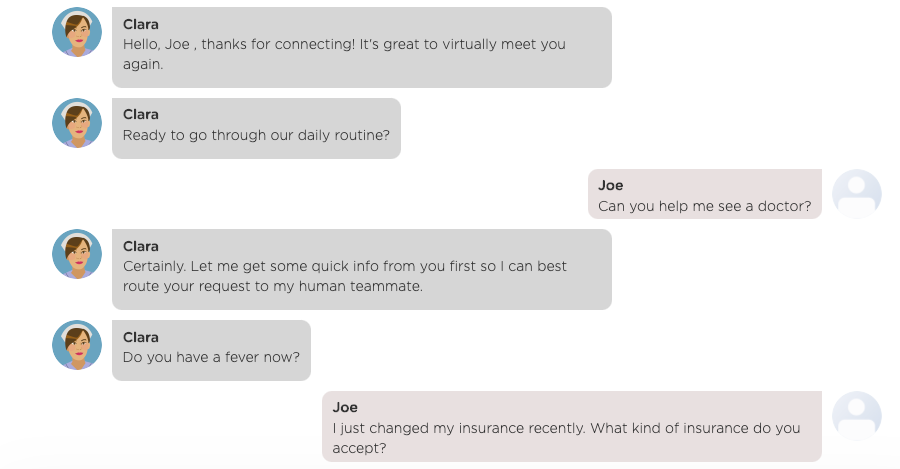
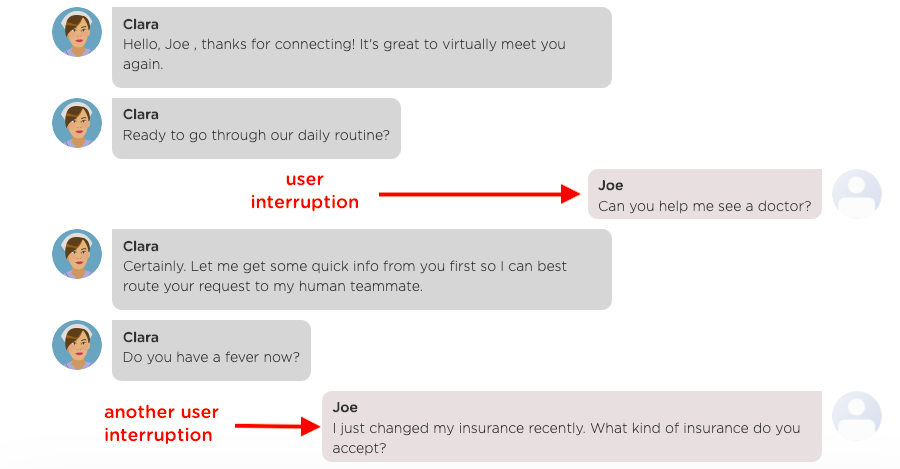
Update Article “where-is-artificial-intelligence-ai-how-to-make-a-chatbot-smart”

diff --git a/blog/where-is-artificial-intelligence-ai-how-to-make-a-chatbot-smart.md b/blog/where-is-artificial-intelligence-ai-how-to-make-a-chatbot-smart.md
@@ -138,14 +138,12 @@ Assuming that a chatbot can understand your natural language expressions, the ne
 * Does the chatbot resume the conversation flow after answering your question?
 * Does the chatbot keep track of the conversation context (e.g., asking the chatbot "where are we")
 
-The examples shown in Figure 2, Figure 5, and Figure 6 are good test cases to detect a chatbot's smart in dialog management. For the best chabots, you could even test how a chatbot handles multi-level interruptions (Figure 7).
-
-![This shows how a chatbot handles multiple, nested user interruptions. The user interrupted the chatbot's flow by asking the chatbot a question. While the chatbot is answering the user's question, the user interrupted the flow by asking another question.]( "Figure 7. An example showing that a chatbot handles multi-level user interruptions as indicated.")
+The examples shown in Figure 2, Figure 5, and Figure 6 are good test cases to detect a chatbot's smart in dialog management. For the best chabots, you could even test how a chatbot handles multi-level interruptions as shown in Figure 2.
 
 ## Can the chatbot be personal?
 
-We suggest two ways to test whether a chatbot has the smart to personalize a conversation. One is to directly ask the chatbot "How much do you know about me?" and see how it responds (Figure 8). Second, if a chatbot makes recommendations or give advices, ask for a recommendation or advice. Then ask a friend of yours to do the same and see if you get the same results. 
+We suggest two ways to test whether a chatbot has the smart to personalize a conversation. One is to directly ask the chatbot "How much do you know about me?" and see how it responds (Figure 7). Second, if a chatbot makes recommendations or give advices, ask for a recommendation or advice. Then ask a friend of yours to do the same and see if you get the same results. 
 
-![This screenshot shows a user asks a chatbot "how much do you know about me" and the chatbot responds with its understanding of the user. ]( "Figure 8. Asking a chatbot how much it knows about you. ")
+![This screenshot shows a user asks a chatbot "how much do you know about me" and the chatbot responds with its understanding of the user. ]( "Figure 7. Asking a chatbot how much it knows about you. ")
 
 In short, I have described the four types of smarts (AI) every chatbot should have and how to tell if a chatbot has such smarts.  Since it is non-trivial to create a chatbot with all the smarts, I will share how to power a chatbot with these smarts in my next blog. In the meantime, if you wish to test out the smarts of Juji chatbots, [chat with Juji on Facebook ](https://www.facebook.com/juji.io/)(press the "Send Message" blue button) or [sign up](https://juji.io/signup) to create your own and experience such smarts.
